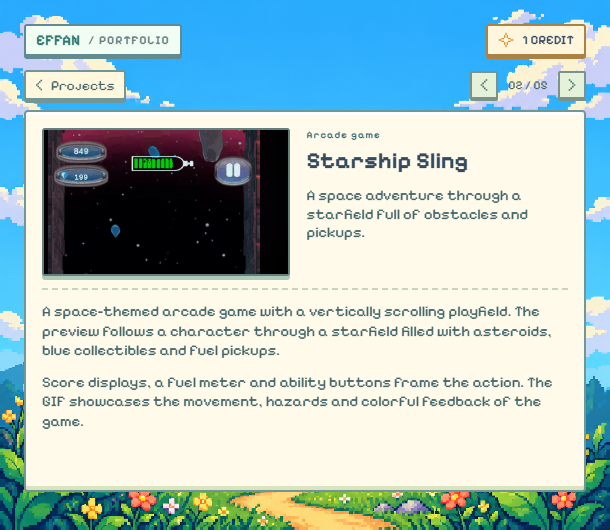
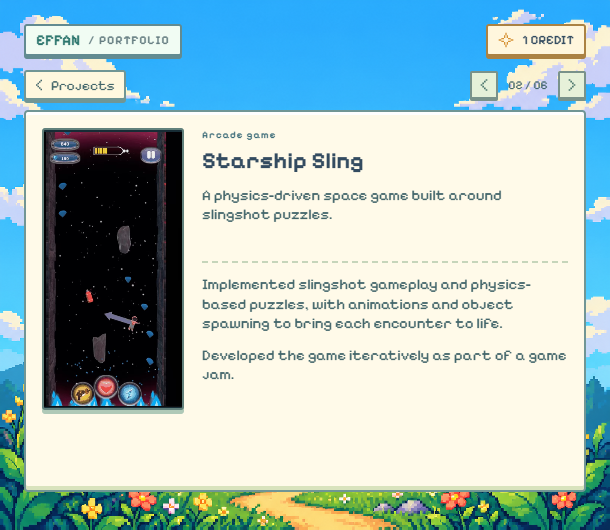
Restore optimized GIF previews and fix Starship portrait layout

Changed region(s): [[0.0623, 0.2415, 0.9344, 0.8151], [0.1557, 0.4226, 0.218, 0.483]]

diff --git a/public/arcade-menu.css b/public/arcade-menu.css
@@ -257,8 +257,8 @@ body[data-view="projects"] .screen { min-height: 0; }
 .project-grid .card-float:nth-child(5) .project-card { background: #e7f4d8; box-shadow: inset 0 3px 0 #ffffff, inset 0 -4px 0 #b5d4ae, 0 5px 0 #719695; }
 .project-card:hover { transform: translateY(-4px); border-color: #a07b3e; }
 .project-card.is-selected { border-color: #a07b3e; }
-.project-preview { display: grid; place-items: center; flex: 1; min-height: 0; width: 100%; overflow: hidden; border: 2px solid #62817c; border-radius: 2px; background: #172c35; }
-.project-preview img, .project-detail-preview video, .project-detail-preview img { width: 100%; height: 100%; object-fit: contain; image-rendering: auto; }
+.project-preview { position: relative; display: grid; place-items: center; flex: 1; min-height: 0; width: 100%; overflow: hidden; border: 2px solid #62817c; border-radius: 2px; background: #172c35; }
+.project-preview img, .project-detail-preview video, .project-detail-preview img { position: absolute; inset: 0; display: block; width: 100%; height: 100%; object-fit: contain; image-rendering: auto; }
 .project-card-category { flex-shrink: 0; margin-top: 5px; color: #627b74; font-size: 9px; line-height: 1.1; }
 .project-card-title { flex-shrink: 0; min-height: 3.3em; margin-top: 4px; font-size: 14px; font-weight: 600; line-height: 1.1; overflow-wrap: anywhere; }
 .project-position { min-width: 48px; text-align: center; color: #42656a; font-size: 12px; }
@@ -269,7 +269,7 @@ body[data-view="projects"] .screen { min-height: 0; }
   scrollbar-width: thin; scrollbar-color: #8fae99 #fff8df;
 }
 .project-detail-overview { display: grid; grid-template-columns: .95fr 1fr; align-items: start; gap: 16px; }
-.project-detail-preview { display: grid; place-items: center; height: 148px; margin: 0; overflow: hidden; border: 2px solid #62817c; border-radius: 3px; background: #172c35; box-shadow: 0 4px 0 #afc9b7; }
+.project-detail-preview { position: relative; display: grid; place-items: center; height: 148px; margin: 0; overflow: hidden; border: 2px solid #62817c; border-radius: 3px; background: #172c35; box-shadow: 0 4px 0 #afc9b7; }
 .project-detail-heading .eyebrow { margin: 1px 0 8px; font-size: 10px; letter-spacing: 1px; }
 .project-detail-heading h2 { margin: 0; font-size: 23px; line-height: 1.08; overflow-wrap: anywhere; }
 .project-detail-heading h2:focus { outline: none; }
@@ -277,6 +277,16 @@ body[data-view="projects"] .screen { min-height: 0; }
 .project-story { margin-top: 12px; padding-top: 12px; border-top: 2px dashed #c6d5ba; color: #42656a; font-size: 15px; line-height: 1.3; }
 .project-story p { margin: 0 0 12px; }
 .project-story p:last-child { margin-bottom: 0; }
+/* Starship Sling is a portrait phone recording (368 x 732). */
+.project-card[data-project="starship-sling"] { display: grid; grid-template-columns: minmax(0, 1fr) minmax(0, 1fr); grid-template-rows: auto 1fr; gap: 4px 6px; }
+.project-card[data-project="starship-sling"] .project-preview { grid-row: 1 / 3; height: auto; aspect-ratio: 92 / 183; max-height: 100%; align-self: center; }
+.project-card[data-project="starship-sling"] .project-card-category { align-self: end; margin-top: 0; }
+.project-card[data-project="starship-sling"] .project-card-title { min-height: 0; margin-top: 0; }
+#project-detail-view[data-project="starship-sling"] .project-detail-scroll { display: grid; grid-template-columns: minmax(0, 142px) minmax(0, 1fr); gap: 0 18px; align-content: start; }
+#project-detail-view[data-project="starship-sling"] .project-detail-overview { display: contents; }
+#project-detail-view[data-project="starship-sling"] .project-detail-preview { grid-column: 1; grid-row: 1 / 3; height: auto; aspect-ratio: 92 / 183; }
+#project-detail-view[data-project="starship-sling"] .project-detail-heading { grid-column: 2; grid-row: 1; }
+#project-detail-view[data-project="starship-sling"] .project-story { grid-column: 2; grid-row: 2; }
 .experience-list {
   display: flex; flex: 1; flex-direction: column; gap: 8px; min-height: 0; overflow-y: auto;
   padding: 4px 6px 8px 3px; scrollbar-width: thin; scrollbar-color: #8fae99 #fff8df;
@@ -335,10 +345,18 @@ body[data-view="projects"] .screen { min-height: 0; }
   .project-card { padding: 4px; }
   .project-card-category { font-size: 8px; }
   .project-card-title { min-height: 5.5em; font-size: 11px; }
+  .project-card[data-project="starship-sling"] { display: flex; }
+  .project-card[data-project="starship-sling"] .project-preview { width: 100%; aspect-ratio: auto; align-self: stretch; }
+  .project-card[data-project="starship-sling"] .project-card-category { align-self: auto; margin-top: 5px; }
+  .project-card[data-project="starship-sling"] .project-card-title { min-height: 5.5em; margin-top: 4px; }
   .project-detail-scroll { padding: 12px; }
   .project-detail-overview { grid-template-columns: 1fr; gap: 16px; }
   .project-detail-preview { height: 190px; }
   .project-detail-heading h2 { font-size: 26px; }
+  #project-detail-view[data-project="starship-sling"] .project-detail-scroll { display: block; }
+  #project-detail-view[data-project="starship-sling"] .project-detail-overview { display: grid; }
+  #project-detail-view[data-project="starship-sling"] .project-detail-preview { grid-column: auto; grid-row: auto; width: min(100%, 150px); justify-self: center; }
+  #project-detail-view[data-project="starship-sling"] .project-detail-heading { grid-column: auto; grid-row: auto; }
   .experience-list { gap: 7px; padding-right: 3px; }
   .experience-row { grid-template-columns: 42px minmax(0, 1fr); gap: 8px; padding: 8px; }
   .experience-logo { width: 42px; height: 42px; }

diff --git a/public/arcade-menu.js b/public/arcade-menu.js
@@ -26,6 +26,7 @@ function setView(name) {
 
 const projectVideoUrl = project => `/project-videos/${encodeURIComponent(project.file.replace(/\.gif$/i, '.webm'))}`;
 const projectThumbnailUrl = project => `/project-thumbnails/${encodeURIComponent(project.file.replace(/\.gif$/i, '.webp'))}`;
+const projectGifUrl = project => `/project-gifs/${encodeURIComponent(project.file)}`;
 
 function buildProjectCards() {
   if (projectCards.length) return;
@@ -38,12 +39,12 @@ function buildProjectCards() {
     card.dataset.project = project.id;
     const preview = document.createElement('span');
     preview.className = 'project-preview';
-    const thumbnail = document.createElement('img');
-    thumbnail.src = projectThumbnailUrl(project);
-    thumbnail.alt = '';
-    thumbnail.loading = 'lazy';
-    thumbnail.decoding = 'async';
-    preview.appendChild(thumbnail);
+    const gif = document.createElement('img');
+    gif.src = projectGifUrl(project);
+    gif.alt = '';
+    gif.loading = 'lazy';
+    gif.decoding = 'async';
+    preview.appendChild(gif);
     const category = document.createElement('span');
     category.className = 'project-card-category';
     category.textContent = project.category;
@@ -160,6 +161,7 @@ function showMenu() {
 function openProject(index, moveFocus = true) {
   chooseProject(index);
   const project = arcadeProjects[selectedProjectIndex];
+  document.getElementById('project-detail-view').dataset.project = project.id;
   const video = document.getElementById('project-video');
   const gif = document.getElementById('project-gif');
   if (project.detailPreview === 'gif') {
@@ -168,7 +170,7 @@ function openProject(index, moveFocus = true) {
     video.load();
     video.hidden = true;
     gif.hidden = false;
-    gif.src = `/project-gifs/${encodeURIComponent(project.file)}`;
+    gif.src = projectGifUrl(project);
     gif.alt = `${project.title} project demonstration`;
   } else {
     gif.removeAttribute('src');

diff --git a/design-qa.md b/design-qa.md
@@ -43,8 +43,8 @@ The saved verification scripts reproduce the local checks. Existing blue-design 
 The user's two additional sketches specify a grid of GIF cards followed by a detail view with the selected GIF at the left, explanatory text beside it, and more text below. The implementation keeps this arrangement at the arcade viewport, preserving the existing colorful theme.
 
 - Activating Projects opens six projects with animated previews: Water Renderer, Starship Sling, Adaptive Enemy Framework, Cloth Simulator, Terrain Generator and Tower Defense.
-- Every GIF uses `object-fit: contain` to preserve the complete landscape or portrait preview. The original files are unchanged. Previews are created only when the Projects grid first opens.
-- Each card opens its matching GIF, category, title, summary and two explanatory paragraphs. Copy is editable in `public/arcade-projects.js`; the initial draft uses filenames and visible demo content without adding unverified technologies or metrics.
+- Every GIF uses `object-fit: contain` to preserve the complete landscape or portrait preview. Previews are created only when the Projects grid first opens.
+- Each card opens its matching preview, category, title, summary and two explanatory paragraphs. Copy is editable in `public/arcade-projects.js`.
 - All six complete card names and full explanations fit the 610 x 530 display. Three columns and two rows remain visible without scrolling. The header and back controls stay above the grid.
 - The gallery heading and intro, story caption and keyboard hint bar are removed, along with the JavaScript references and CSS for those elements. Keyboard navigation remains functional.
 - Native mouse clicks, Enter activation, arrow keys, Home/End, previous/next wrapping and Escape navigation passed. Going back restores the selected card and focus.
@@ -65,3 +65,18 @@ The user's two additional sketches specify a grid of GIF cards followed by a det
 - Reduced the embedded textures in the pub counter, vending machine and hanging light from 1024px to 512px. Their GLBs now total 6.24 MB instead of 14.97 MB (58% smaller); model geometry and transparency are unchanged.
 - Added a procedural, wall-mounted deer-head trophy above the pub counter without introducing another downloaded asset.
 - `npm run build` passes; the existing Three.js bundle-size warning remains.
+
+## GIF preview optimization
+
+- Restored animated GIFs in all six gallery cards, replacing their static thumbnails. They are still created only when Projects opens, with lazy loading and asynchronous decoding.
+- Reduced the six GIFs from 49,009,648 bytes to 6,961,787 bytes (85.8% smaller). Each has a maximum dimension of 256px, 7-8 fps, a 128-color palette and infinite looping. All clip durations remain within one frame of their sources.
+- Full-size sources were backed up outside public. The optimization script validates size reduction, duration, infinite-loop metadata and complete decoding of every output before replacing the files. Per-file measurements are in design/arcade-menu/gif-optimization.json.
+- The browser check confirms all six cards load the resized GIFs and the preview visibly changes between captured frames. The three-column, two-row layout, detail navigation, keyboard controls and mobile layout pass with no console errors.
+- Existing WebM detail previews are retained; Tower Defense uses its optimized GIF. The production build passes with the existing large JavaScript chunk warning.
+
+## Starship Sling portrait preview
+
+- Uses the mobile recording's 368 x 732 aspect ratio (92:183) for a tall desktop card preview and a larger portrait detail frame. The description sits alongside the detail preview; narrow screens stack it below.
+- Preview media is constrained to its frame with object-fit contain so the complete recording remains visible, including the top HUD and bottom controls.
+- Browser checks confirm portrait frame geometry, video decoding, media bounds and the mobile layout. All six cards still fit the three-column, two-row grid, and navigation and the production build pass.
+- Evidence: design/arcade-menu/project-starship-610x530.png and design/arcade-menu/project-starship-390x700.png.

diff --git a/design/arcade-menu/README.md b/design/arcade-menu/README.md
@@ -16,6 +16,12 @@ Project names, GIF paths, summaries and explanatory paragraphs are in `public/ar
 
 Arrow keys move through cards; Enter opens a project. The detail arrows switch projects. Escape and the back buttons return to the grid and main menu, restoring selection and focus. GIFs load when the gallery first opens. Narrow screens keep the same grid and use a stacked detail layout.
 
+The grid uses looping GIFs resized to a maximum dimension of 256px, capped at 8 fps with a 128-color palette. The six files total 6.96 MB instead of 49.01 MB (85.8% smaller), with full clip durations preserved within one frame. Detail pages retain their existing WebM previews; Tower Defense uses its optimized GIF.
+
+Starship Sling keeps its source portrait aspect ratio (368 x 732, or 92:183). Its desktop card places a vertical preview beside the label. The detail view uses a larger portrait frame with the description alongside it; narrow screens stack the portrait preview above the text. Media is contained within its frame so the full recording remains visible.
+
+`scripts/optimize-project-gifs.cjs` reproduces the compression using FFmpeg and ffprobe. Pass a directory of full-size source GIFs and an output directory, for example `node scripts/optimize-project-gifs.cjs path/to/originals public/project-gifs`. It validates complete frame decoding, duration, looping and size reduction before copying outputs, and saves source backups outside the site build. Re-encode from original sources to avoid repeated quality loss. Measurements are in `gif-optimization.json`.
+
 The keyboard hint bar, gallery heading, intro and story caption are removed. The Menu button remains available above the cards.
 
 ## Current evidence
